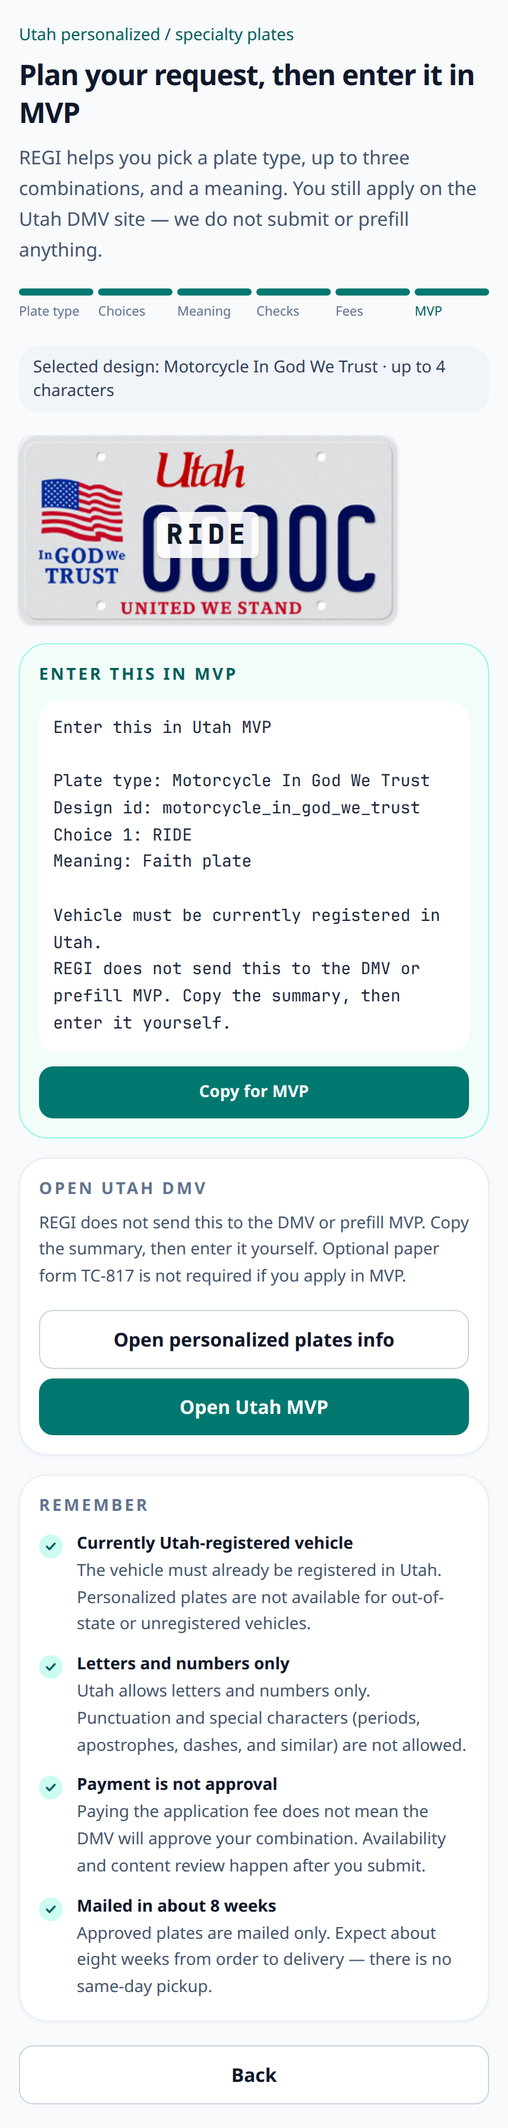
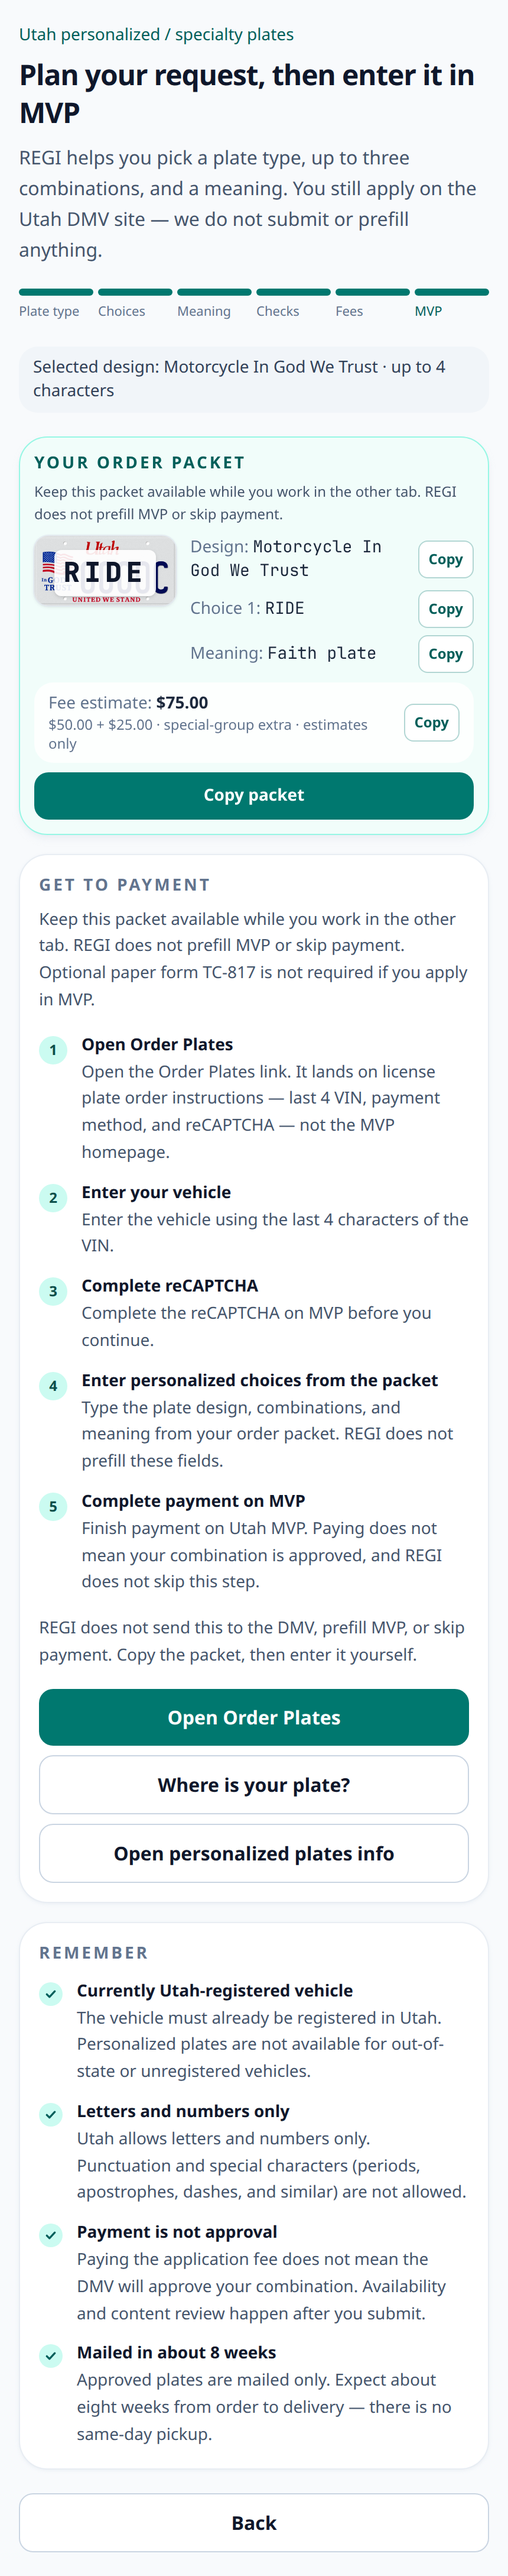
feat: compact sticky order packet and capture handoff evidence
Keep the packet sticky without covering the Get to payment checklist
on mobile. Add docs/evidence/plates-orderplates-handoff screenshots
for smart-pr-handoff.

Changed region(s): [[0.0302, 0.0, 0.9674, 0.9644], [0.4535, 0.9644, 0.5442, 0.9956]]

diff --git a/src/components/plates/UtahOrderPacket.tsx b/src/components/plates/UtahOrderPacket.tsx
@@ -37,7 +37,7 @@ function PacketCopyButton({
       type="button"
       data-testid={testId}
       onClick={() => void onCopy()}
-      className="inline-flex min-h-9 shrink-0 items-center justify-center rounded-lg border border-teal-700/30 bg-white px-2.5 py-1 text-xs font-semibold text-teal-800 transition hover:bg-teal-50 focus-visible:outline focus-visible:outline-2 focus-visible:outline-offset-2 focus-visible:outline-teal-700 dark:border-teal-400/40 dark:bg-slate-900 dark:text-teal-200 dark:hover:bg-teal-950/50"
+      className="inline-flex min-h-8 shrink-0 items-center justify-center rounded-lg border border-teal-700/30 bg-white px-2 py-0.5 text-xs font-semibold text-teal-800 transition hover:bg-teal-50 focus-visible:outline focus-visible:outline-2 focus-visible:outline-offset-2 focus-visible:outline-teal-700 dark:border-teal-400/40 dark:bg-slate-900 dark:text-teal-200 dark:hover:bg-teal-950/50"
     >
       {copied ? "Copied" : label}
     </button>
@@ -56,15 +56,13 @@ function PacketRow({
   testId: string;
 }) {
   return (
-    <div className="flex items-start justify-between gap-3">
-      <div className="min-w-0">
-        <p className="text-xs font-medium uppercase tracking-[0.12em] text-teal-800/80 dark:text-teal-300/80">
-          {label}
-        </p>
-        <p className="mt-0.5 break-words font-mono text-sm text-slate-900 dark:text-slate-100">
-          {value}
-        </p>
-      </div>
+    <div className="flex items-center justify-between gap-3">
+      <p className="min-w-0 text-sm text-slate-800 dark:text-slate-100">
+        <span className="font-medium text-slate-500 dark:text-slate-400">
+          {label}:{" "}
+        </span>
+        <span className="break-words font-mono">{value}</span>
+      </p>
       <PacketCopyButton label={copyLabel} text={value} testId={testId} />
     </div>
   );
@@ -96,7 +94,7 @@ export function UtahOrderPacket({
     <section
       aria-labelledby="utah-order-packet-heading"
       data-testid="utah-order-packet"
-      className="sticky top-[5.25rem] z-[5] rounded-3xl border border-teal-200 bg-teal-50/95 px-4 py-4 shadow-md shadow-slate-200/50 backdrop-blur dark:border-teal-900/70 dark:bg-teal-950/80 dark:shadow-none"
+      className="sticky top-[5.25rem] z-[5] max-h-[min(28rem,calc(100dvh-9rem))] overflow-y-auto rounded-3xl border border-teal-200 bg-teal-50/95 px-3 py-3 shadow-md shadow-slate-200/50 backdrop-blur dark:border-teal-900/70 dark:bg-teal-950/80 dark:shadow-none"
     >
       <h2
         id="utah-order-packet-heading"
@@ -104,75 +102,72 @@ export function UtahOrderPacket({
       >
         Your order packet
       </h2>
-      <p className="mt-2 text-sm leading-relaxed text-slate-600 dark:text-slate-300">
+      <p className="mt-1 text-xs leading-relaxed text-slate-600 dark:text-slate-300">
         {UTAH_PACKET_STAYS_OPEN_NOTE}
       </p>
 
-      {preview ? (
-        <div className="mt-3 max-w-[220px]" data-testid="utah-order-packet-design">
-          <UtahPlatePreviewImage
-            preview={preview}
-            characters={firstCombo}
-            compact
-          />
-        </div>
-      ) : null}
-
-      <div className="mt-3 space-y-3">
-        <PacketRow
-          label="Plate design"
-          value={draft.plateDesignLabel?.trim() || "Utah plate"}
-          copyLabel="Copy design"
-          testId="utah-copy-design"
-        />
-        {draft.combos.map((combo, index) => (
-          <PacketRow
-            key={`${combo}-${index}`}
-            label={`Choice ${index + 1}`}
-            value={combo}
-            copyLabel="Copy"
-            testId={`utah-copy-combo-${index}`}
-          />
-        ))}
-        <PacketRow
-          label="Meaning"
-          value={draft.meaning.trim()}
-          copyLabel="Copy meaning"
-          testId="utah-copy-meaning"
-        />
-        {draft.last4Vin?.trim() ? (
-          <PacketRow
-            label="VIN last 4"
-            value={draft.last4Vin.trim()}
-            copyLabel="Copy VIN"
-            testId="utah-copy-vin-last4"
-          />
-        ) : null}
-        <div className="rounded-2xl bg-white/80 px-3 py-2.5 dark:bg-slate-900/70">
-          <div className="flex items-start justify-between gap-3">
-            <div>
-              <p className="text-xs font-medium uppercase tracking-[0.12em] text-teal-800/80 dark:text-teal-300/80">
-                Fee estimate
-              </p>
-              <p className="mt-0.5 text-sm font-semibold text-slate-900 dark:text-slate-100">
-                {formatUsdCents(fees.initialTotalCents)} initial
-              </p>
-              <p className="mt-0.5 text-xs text-slate-600 dark:text-slate-400">
-                {formatUsdCents(fees.applicationFeeCents)} application +{" "}
-                {formatUsdCents(fees.processingFeeCents)} processing
-                {fees.specialGroupNote
-                  ? ". Special-group contribution is extra — confirm on MVP."
-                  : "."}{" "}
-                Estimates only.
-              </p>
-            </div>
-            <PacketCopyButton
-              label="Copy fees"
-              text={feeCopy}
-              testId="utah-copy-fees"
+      <div className="mt-2 flex gap-3">
+        {preview ? (
+          <div
+            className="w-[7.5rem] shrink-0"
+            data-testid="utah-order-packet-design"
+          >
+            <UtahPlatePreviewImage
+              preview={preview}
+              characters={firstCombo}
+              compact
             />
           </div>
+        ) : null}
+        <div className="min-w-0 flex-1 space-y-1.5">
+          <PacketRow
+            label="Design"
+            value={draft.plateDesignLabel?.trim() || "Utah plate"}
+            copyLabel="Copy"
+            testId="utah-copy-design"
+          />
+          {draft.combos.map((combo, index) => (
+            <PacketRow
+              key={`${combo}-${index}`}
+              label={`Choice ${index + 1}`}
+              value={combo}
+              copyLabel="Copy"
+              testId={`utah-copy-combo-${index}`}
+            />
+          ))}
+          <PacketRow
+            label="Meaning"
+            value={draft.meaning.trim()}
+            copyLabel="Copy"
+            testId="utah-copy-meaning"
+          />
+          {draft.last4Vin?.trim() ? (
+            <PacketRow
+              label="VIN last 4"
+              value={draft.last4Vin.trim()}
+              copyLabel="Copy"
+              testId="utah-copy-vin-last4"
+            />
+          ) : null}
         </div>
+      </div>
+
+      <div className="mt-2 flex items-center justify-between gap-3 rounded-2xl bg-white/80 px-3 py-2 dark:bg-slate-900/70">
+        <p className="text-sm text-slate-800 dark:text-slate-100">
+          <span className="font-medium text-slate-500 dark:text-slate-400">
+            Fee estimate:{" "}
+          </span>
+          <span className="font-semibold">
+            {formatUsdCents(fees.initialTotalCents)}
+          </span>
+          <span className="block text-xs text-slate-500 dark:text-slate-400">
+            {formatUsdCents(fees.applicationFeeCents)} +{" "}
+            {formatUsdCents(fees.processingFeeCents)}
+            {fees.specialGroupNote ? " · special-group extra" : ""} · estimates
+            only
+          </span>
+        </p>
+        <PacketCopyButton label="Copy" text={feeCopy} testId="utah-copy-fees" />
       </div>
 
       <pre data-testid="utah-mvp-copy-text" className="sr-only">
@@ -182,7 +177,7 @@ export function UtahOrderPacket({
         type="button"
         data-testid="utah-copy-packet"
         onClick={() => void copyPacket()}
-        className="mt-3 inline-flex min-h-11 w-full items-center justify-center rounded-xl bg-teal-700 px-4 py-2.5 text-sm font-semibold text-white transition hover:bg-teal-800 focus-visible:outline focus-visible:outline-2 focus-visible:outline-offset-2 focus-visible:outline-teal-700"
+        className="mt-2 inline-flex min-h-10 w-full items-center justify-center rounded-xl bg-teal-700 px-4 py-2 text-sm font-semibold text-white transition hover:bg-teal-800 focus-visible:outline focus-visible:outline-2 focus-visible:outline-offset-2 focus-visible:outline-teal-700"
       >
         {copiedPacket ? "Copied" : "Copy packet"}
       </button>
